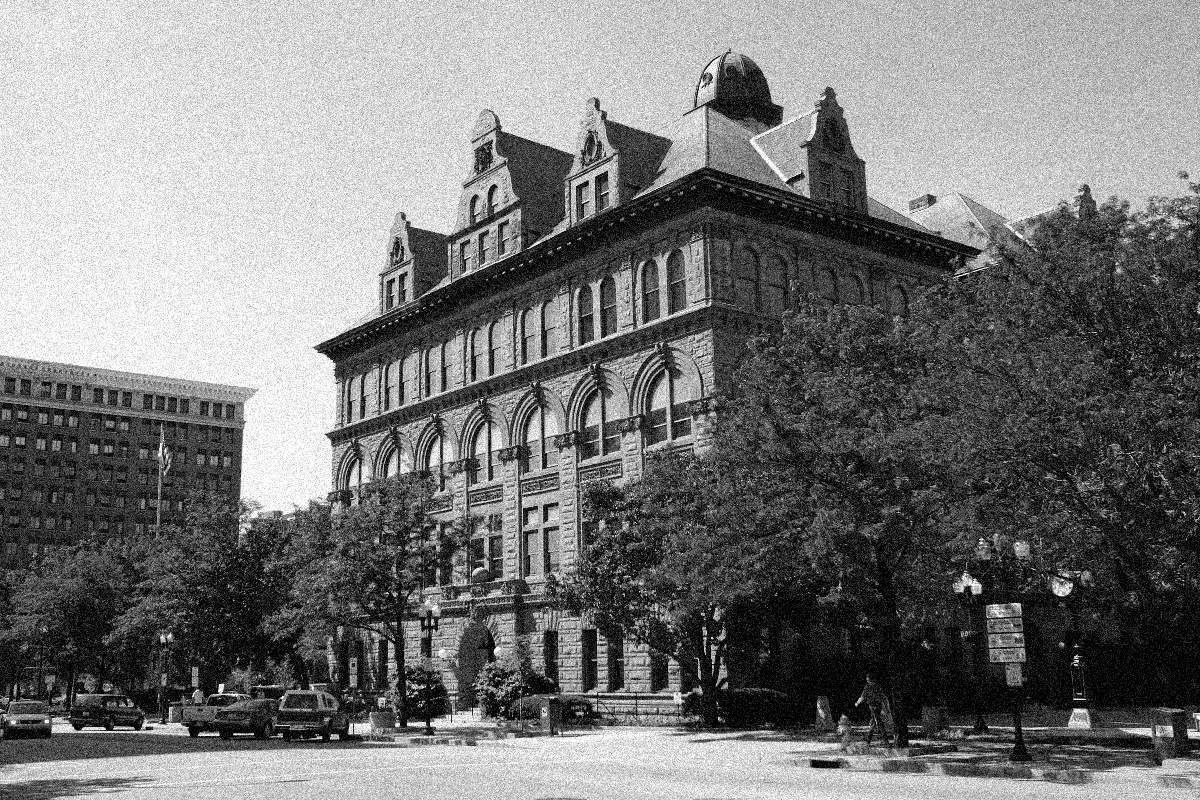
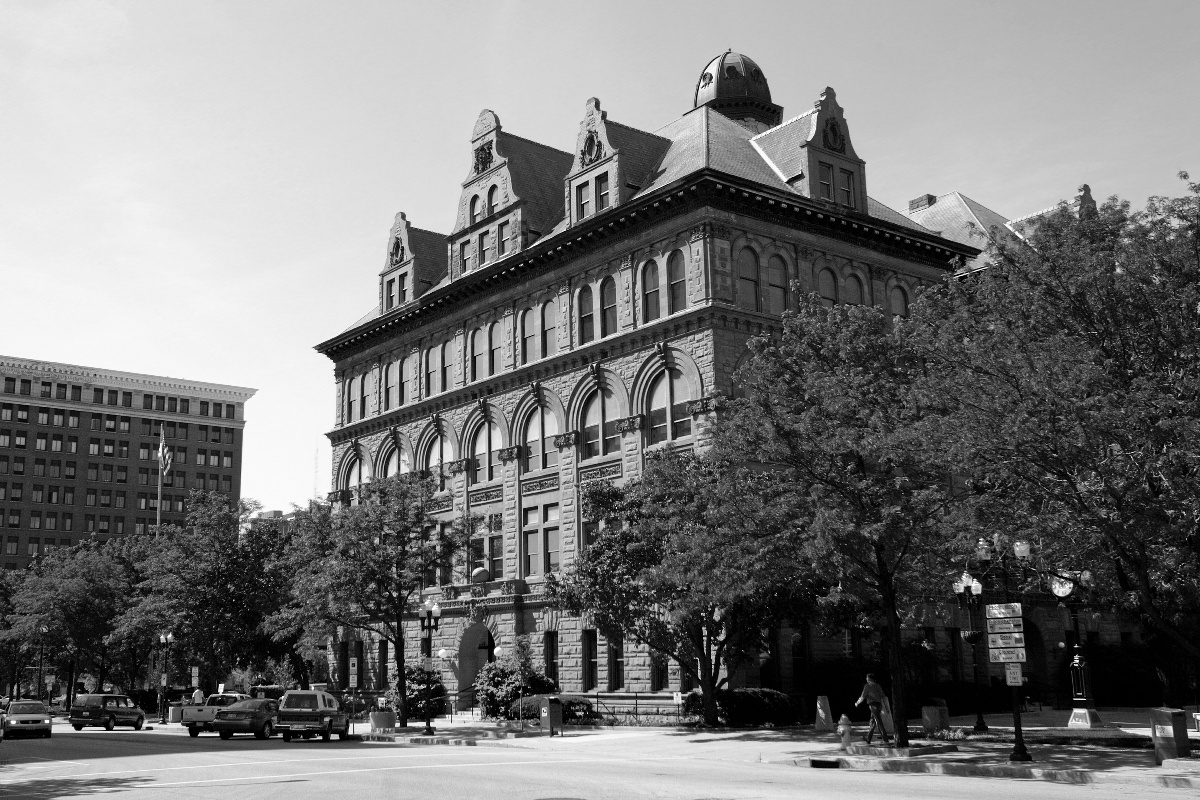
Added gaussian kernel to noise removal

Changed region(s): [[0.0, 0.0, 1.0, 1.0]]

diff --git a/4_Gaussian_Filter/Noise_Removal.py b/4_Gaussian_Filter/Noise_Removal.py
@@ -3,6 +3,8 @@ import cv2
 from matplotlib import pyplot as plt
 import threading
 from tkinter import *
+from Gaussian_Kernel import getGaussianKernel
+import matplotlib.pyplot as plt
 
 imageName = "PeoriaCityHall.JPG"
 image = cv2.imread(imageName, 0)
@@ -17,6 +19,8 @@ def addGaussianNoise(img1, sigma):
     columns = img1.shape[1]
     noise = np.random.normal(0,sigma ,(rows,columns))
     noise = noise.astype(int)
+    noise = getGaussianKernel((rows,columns), sigma)
+
     return img1 + noise
 
 noisyImage = addGaussianNoise(image,32)
@@ -30,14 +34,12 @@ class filterThread (threading.Thread):
     def run(self):
         displayFilter()
 
-
 #Remove noise hsize = 31, sigma = 5
-def removeNoiseGaussian(img, hsize=1023, sigma=5):
-    kernel = cv2.getGaussianKernel(hsize,sigma)
+def removeNoiseGaussian(img, hsize=30, sigma=5):
+    kernel = getGaussianKernel((hsize, hsize), sigma)
     img = np.array(img, dtype=np.uint8)
     img = cv2.filter2D(img, -1, kernel)
     return img
-
 
 def displayFilter():
     while(True):
@@ -53,7 +55,7 @@ def displayFilter():
 
 def showSlideBar():
     bar1 = Scale(root, from_=1, to=70, orient=HORIZONTAL, variable=blurSigma, length=200)
-    bar2 = Scale(root, from_=1, to=70, orient=HORIZONTAL, variable=noiseSigma, length=200)
+    bar2 = Scale(root, from_=31, to=60, orient=HORIZONTAL, variable=noiseSigma, length=200)
     bar3 = Scale(root, from_=31, to=1023, orient=HORIZONTAL, variable=kernelSize, resolution=3, length=200)
 
     bar1.pack()
@@ -62,13 +64,12 @@ def showSlideBar():
 
     bar1 = Label(root, text= "Blur Sigma Adjustment (Top)")
     bar2 = Label(root, text= "Noise Sigma Adjustment (Middle)")
-    bar3 = Label(root, text= "Kernel Size Adjustment (Bottom)")
+    bar3 = Label(root, text= "Blur Kernel Size Adjustment (Bottom)")
     
-    bar3.pack()
-    bar2.pack()
     bar1.pack()
+    bar2.pack()
+    bar3.pack()
     root.mainloop()
-
 
 noisyImageName = imageName[:-4] + "_noisy.jpg"
 blurImageName = imageName[:-4] + "_blur.jpg"

diff --git a/4_Gaussian_Filter/Gaussian_Kernel.py b/4_Gaussian_Filter/Gaussian_Kernel.py
@@ -83,7 +83,7 @@ def getGaussianKernel(shape=(6,6), sigma=0.5):
     return kernel
 
 #uncomment to plot
-#gaussian_kernel = getGaussianKernel((13,13),3)
+#gaussian_kernel = getGaussianKernel((30,30),5)
 #plt.imshow(gaussian_kernel)
 #plt.colorbar()
 #plt.show()
